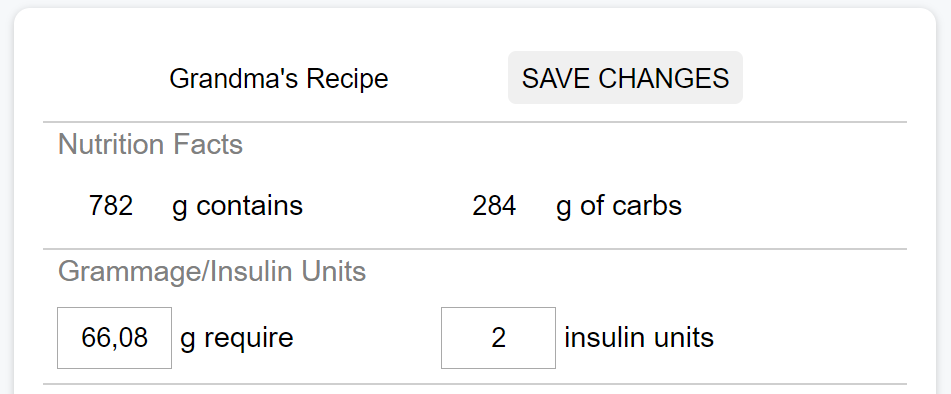
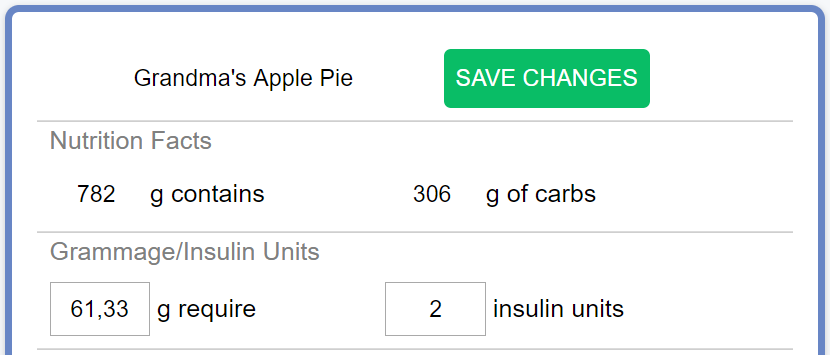
updated tutorial

diff --git a/html/info.html b/html/info.html
@@ -47,28 +47,28 @@
         <div class="card" id="tut_ingredients">
             <h2>Ingredients</h2>
             <p>First of all, head over to <em><a href="ingredients.php">Your Ingredients</a></em> section and save the new ingredients by filling in the necessary information and clicking the <em>Save New Ingredient</em> button.<br/> For each ingredient
-                insert its name and the quantity of carbs in 100g of product. You can find this information in the nutritional table on the product’s package. The value we are interested in is the quantity of cabohydrates (<em>carbs</em> for short), and <strong>not</strong> the quantity of sugars.<img alt="Nutrition Facts Example" src="img/instructions/16.png"/><br/> If you fail finding this information, or if the product does not come in a package, try looking it up on <a href="https://www.calorieking.com/us/en/">Calorie King</a> or simply
-                <a href="http://www.google.com">google it</a>.<img alt="Find calorie info" src="img/instructions/2.png" /> For example, all-purpose flour contains 6g of carbs in 100g of flour, so saving the new ingredient will look like this:<img alt="Add ingredient form"
-                src="img/instructions/3.png" /> On the other hand, unsalted butter has approximately 0.1g of carbs in 100g of product. In this case butter is irrelevant for our calculations but we are going to insert it anyway for the sake of completeness.
+                insert its name and the quantity of carbohydrates (<em>carbs</em> for short) in 100g of product. You can find this information in the nutritional table on the product’s package. The value we are interested in is the quantity of carbs, and <strong>not</strong> the quantity of sugars. Here is an example of a nutritional table you can find on a bag of cookies:<img alt="Nutrition Facts Example" src="img/instructions/16.png"/><br/> If you fail finding this information, or if the product does not come in a package, try looking it up on <a href="https://www.calorieking.com/us/en/">Calorie King</a> or simply
+                <a href="http://www.google.com">google it</a>.<img alt="Find calorie info" src="img/instructions/2.png" /> For example, all-purpose flour contains approximately 73g of carbs in 100g of flour, so saving the new ingredient will look like this:<img alt="Add ingredient form"
+                src="img/instructions/3.png" /> On the other hand, unsalted butter has less than 1g of carbs in 100g of product. In this case butter is irrelevant for our calculations but we are going to insert it anyway for the sake of completeness.
                 <em>Your Ingredients</em> section should now look like this:<img alt="Ingredients list" src="img/instructions/4.png" /> After you are done saving the ingredients we can proceed making the recipe. To do so, open the Calculator either by clicking
-                the <em>Calculator</em> button or the <em>Make a New Recipe</em> button in <em>Your Recipes</em> section.
+                the <em><a href="calculator.php">Calculator</a></em> button or the <em>Make a New Recipe</em> button in <em><a href="recipes.php">Your Recipes</a></em> section.
             </p>
         </div>
         <div class="card" id="tut_calc">
             <h2>Calculator</h2>
             <p>
                 Initially the recipe in the Calculator is empty and we need to <strong>add the ingredients</strong>.<br/> In the Calculator window you can see a dropdown list. Click on the list and <strong>pick the ingredients</strong> you just created, one
-                by one. Notice that a new card appears for each ingredient, like so: <img alt="Ingredient card in calcluator" src="img/instructions/5.png" /> Each card is composed of four sections. The first section contains the <strong>name of the ingredient.</strong>
+                by one. Notice that a new card appears for each ingredient, like so: <img alt="Ingredient card in calcluator" src="img/instructions/5.png" />
             </p>
         </div>
         <div class="card" id="tut_card_desc">
             <h2>Fields</h2>
             <p>
-                The Nutrition Facts section contains the quantity of <strong>carbs in 100g of product</strong>, which is the information you inserted before. These two sections are already filled out when you insert the ingredient from the dropdown list.
-                <img alt="Nutrition facts section" src="img/instructions/6.png" /> The Grammage section is the most important one. In the Grams field insert the <strong>quantity of ingredient</strong> needed for your recipe. For example, we need 840g of apples
-                for our Apple Pie, so we will insert the number 840 in the Grams field. Note that the Insulin Units field, on the right, now contains a value. This value represents the <strong>of insulin required</strong> for 840g of apples. This is perhaps
+                Each card is composed of four sections. The first section contains the <strong>name of the ingredient</strong>.<br/>The Nutrition Facts section contains the quantity of <strong>carbs in 100g of product</strong>, which is the information you inserted before. These two sections are already filled out when you insert the ingredient from the dropdown list.
+                <img alt="Nutrition facts section" src="img/instructions/6.png" /> The Grammage section is the most important one. In the <em>Grams</em> field insert the <strong>quantity of ingredient</strong> needed for your recipe. For example, we need 440g of apples
+                for our Apple Pie, so we will insert the number 440 in the <em>Grams</em> field. Note that the <em>Insulin Units</em> field, on the right, now contains a value. This value represents the <strong>dose of insulin required</strong> for 440g of apples. This is perhaps
                 the value you will care about the most.<img alt="Grammage section" src="img/instructions/7.png" /> The last section allows you to cut your ingredient into a number of pieces. Press the plus button to increase the number of pieces or directly
-                write in the number in the pieces field. Note that the table now contains three values:
+                write in the number in the <em>Pieces</em> field. Note that the table now contains three values:
             </p>
             <ul>
                 <li>carbs: the quantity of carbs of one piece measured in grams;</li>
@@ -77,14 +77,14 @@
             </ul>
             <p>
                 This sections is not particularly interesting at the moment, but it will be soon!<img alt="Divided-in section" src="img/instructions/8.png" /> Note that liquids, for example milk, are measured in <em>milliliters</em> and not in <em>grams</em>,
-                but don't worry, it is the proportion between the Nutritional Facts data that counts, and not the unit of measurement, therefore the calculator can be used for liquids as well!<br/> After
+                but don't worry, it is the proportion between the Nutritional Facts data that counts, and not the unit of measurement, therefore the calculator can be used for liquids as well!<br/>
             </p>
         </div>
         
         <div class="card" id="tut_recipe">
             <h2>Recipe</h2>
             <p>
-                Inserting all the ingredients your calculator should look like this:<img alt="All ingredients cards in calculator" src="img/instructions/9.png" /> Now that we have inserted all the ingredients in the Calculator it’s time to combine them together!
+                After inserting all the ingredients your calculator should look like this:<img alt="All ingredients cards in calculator" src="img/instructions/9.png" /> Now that we have inserted all the ingredients in the Calculator it’s time to combine them together!
                 On the bottom of the page you can see the <strong>calculator’s control panel</strong>. Find the <em>Combine</em> button and click it. A new ingredient-like card will be shown. This card describes your recipe as a homogeneous combination of
                 ingredients or, simply put, it describes the recipe as a single ingredient/product. We still haven’t saved our recipe though. To do so, insert the name “Grandma’s Apple Pie” in the <em>Recipe Name</em> field of the card and click the <em>Save</em>            button.
                 <img alt="Recipe card" src="img/instructions/10.png" /> The recipe has now been saved and can be found in <em><a href="recipes.php">Your Recipes</a></em> section.
@@ -93,12 +93,12 @@
         <div class="card" id="tut_recipe_desc">
             <h2>Recipe fields</h2>
             <p>
-                Now let's look closely at the Recipe card that was displayed in the calculator.<br/> In the Nutrition Facts section the Calculator has automatically calculated the quantity of carbs per 100g of Apple Pie, based on the ingredients data we inserted
-                before. <br/> The Grammage section is the most important part of the whole Calculator. Here you can <strong> calculate the dose of insulin units</strong> you need to inject for eating a certain quantity of Apple Pie, and <strong> vice versa</strong>.
-                Also, the Grammage field determines how much of that particular ingredient you are going to use for your recipe.<br/> Let’s say you plan on eating 50g of Apple Pie. Insert 50 in the Grammage field and note that the Insulin Units field now
-                contains 1.51. This means that for 50 grams of Apple Pie you need to inject 1.51 units of insulin. <img alt="Calculation from grams" src="img/instructions/11.png" /> A unit and a half is not very useful though, as you can not inject half a
-                unit. In this case, you could for example decide to eat the equivalent of 2 insulin units. No problem, just insert the number of insulin units you plan on injecting in the Insulin Units field. The Grams field will then tell you how much Apple
-                Pie to eat for that particular dose of insulin. Insert the number 2 in the Insulin Units field and note that the Grammage field contains the number 66. This means that if you inject 2 insulin units you need to eat 66g of Apple Pie. Cool, right?
+                Now let's look closely at the Recipe card that was displayed in the calculator.<br/> In the Nutrition Facts section the Calculator has automatically calculated the nutritional facts of our Apple Pie, based on the ingredients data we inserted
+                before. <br/> The Grammage section is the most important part of the whole Calculator. Here you can <strong> calculate the dose of insulin units</strong> you need to inject for eating a certain quantity of Apple Pie, and <strong> vice versa</strong>.<br/>
+                Let’s say you plan on eating 50g of Apple Pie. Insert 50 in the Grammage field and note that the Insulin Units field now
+                contains 1.51. This means that for 50 grams of Apple Pie you need to inject 1.63 units of insulin. <img alt="Calculation from grams" src="img/instructions/11.png" /> 1.63 units is not very useful though, as you can not inject half a
+                unit. In this case, you could for example decide to eat the equivalent of 2 insulin units. No problem, just insert the number of insulin units you plan on injecting in the <em>Insulin Units</em> field. The <em>Grams</em> field will then tell you how much Apple
+                Pie to eat for that particular dose of insulin.<br/>Insert the number 2 in the Insulin Units field and note that the Grammage field contains the number 61. This means that if you inject 2 insulin units you need to eat approximately 60g of Apple Pie. Cool, right?
                 <img alt="Calculation from insulin units" src="img/instructions/12.png" /> You can also apply the same procedure if you follow a strict diet and the quantity of food you eat depends on a fixed dose of insulin.
             </p>
         </div>
@@ -109,11 +109,14 @@
                 the Grammage field. If you haven't already eaten any of the Apple Pie then the grammage is equivalent to the sum of the ingredients grammages. This sum has already been automatically calculated in the Nutrition Facts section of the Recipe
                 card. If you haven't eaten any of the Apple Pie yet, insert 782 in the Grammage Field in the Grammage section, otherwise weigh how much of the apple cake you have left and insert that value in the Grammage Field. <img alt="Recipe all grams selected"
                 src="img/instructions/14.png" /> One way to use the last section is to <strong> determine the number of pieces you need to cut your cake into</strong> in order to have a certain dose of <strong>insulin for each piece</strong>. Let’s say you
-                want every piece of cake to require approximately 2 insulin units. Click on the plus sign to increase the number of pieces until every piece requires approximately 2 insulin units. In our case, you would need to cut the Apple Pie into 12 equivalent
-                pieces in order for each piece to require 2 insuilin units approximately. Moreover, each piece should weight approximately 65 grams and has approximately 24 grams of carbs in it.
-                <img alt="Divided in pieces" src="img/instructions/15.png" /> Another way to use this section is to <strong>calculate the information for every piece</strong> given the number of pieces you have already cut your cake into. Please note that
-                for the Calculator to work properly you need to make homogeneous recipes, which means that all the ingredients need to be evenly distributed in the recipe. For example, a piece of cake with an apple on top of it will have more carbs than a
-                piece of Pie without an apple, which is not what we want. You can edit, save and delete your recipes at any time from <em><a href="recipes.php">Your Recipes</a></em> section.
+                want every piece of pie to require approximately 2 insulin units. Click on the plus sign to increase the number of pieces until every piece requires approximately 2 insulin units. In our case, you would need to cut the Apple Pie into 12 equivalent
+                pieces in order for each piece to require 2 insuilin units approximately. Moreover, each piece should weight approximately 65 grams and has approximately 25 grams of carbs in it.
+                <img alt="Divided in pieces" src="img/instructions/15.png" /> You could also use this section is to <strong>calculate the information for every piece</strong> given the number of pieces you have already cut your cake into. Please note that
+                for the Calculator to work properly you need to make homogeneous recipes, which means that all the ingredients need to be evenly distributed in the recipe. For example, a piece of pie with an apple on top of it will have more carbs than a
+                piece of pie without an apple, which is not what we want.<br/><br/>
+                This section can be particularly useful if you buy a product that has many ingredients inside of it as well. Imagine you buy a package of cookies and you want to know the information about each cookie. 
+                Insert the nutritional facts and the grammage of the the whole package, as we saw before, and then insert the number of cookies in the <em>Pieces</em> field. There you go, you now have the relevant information for each cookie in the table.
+                <br/>You can edit, save and delete your recipes at any time from <em><a href="recipes.php">Your Recipes</a></em> section.
                 <br/>
                 <strong>Please note that the calculations are approximated. Use with caution!</strong>
             </p>
